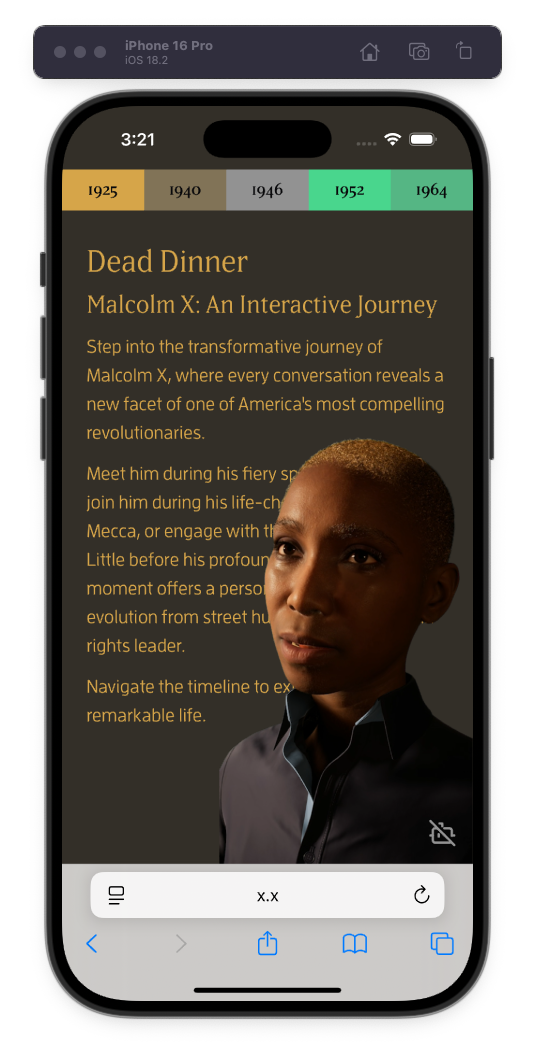
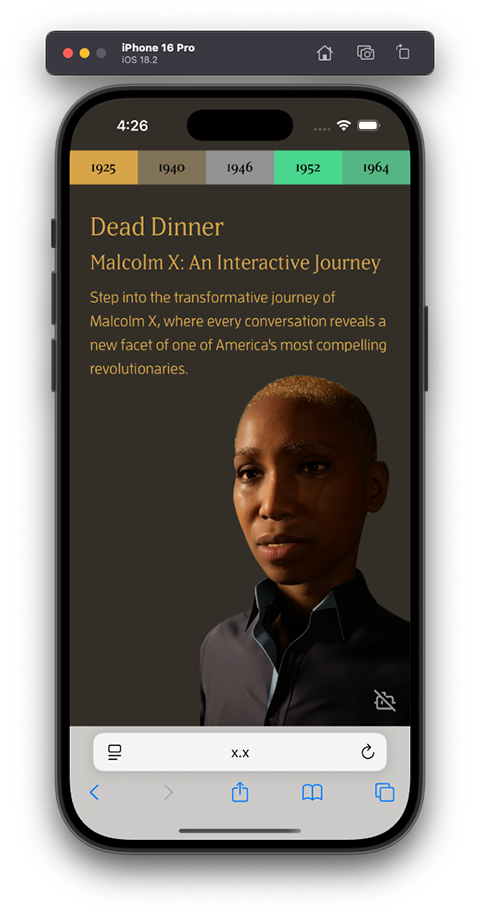
dd images + thirdeyes

diff --git a/apps/🏂home/app/(pages)/act/page.tsx b/apps/🏂home/app/(pages)/act/page.tsx
@@ -30,9 +30,10 @@ const Act = () => {
           </p>
         </div>
       </header>
+
       <div className="w-full max-w-[1200px] mx-auto pt-8">
         <div className="w-2/3 text-xl font-light text-namjunepaik-4-light">
-          <div className="text-3xl text-namjunepaik-3 font-[cholla-unicase]">
+          <div className="text-4xl text-namjunepaik-3 font-[cholla-unicase]">
             Dead Dinner
           </div>
           <p className="pt-1 leading-relaxed">
@@ -47,7 +48,7 @@ const Act = () => {
             introduces them to the app.
           </p>
         </div>
-        <div className="w-full grid grid-cols-4 justify-start gap-4 pt-4">
+        <div className="w-full grid grid-cols-4 justify-start gap-4 pt-8">
           <Image
             src="/images/act/dd-mob-1.png"
             alt="Dead Dinner"
@@ -73,7 +74,7 @@ const Act = () => {
             height={1062}
           />
         </div>
-        <div className="w-full pt-4">
+        <div className="w-full pt-8">
           <Image
             src="/images/act/dd-1.png"
             alt="Dead Dinner"
@@ -88,6 +89,40 @@ const Act = () => {
           />
           <Image
             src="/images/act/dd-3.png"
+            alt="Dead Dinner"
+            width={1200}
+            height={743}
+          />
+        </div>
+      </div>
+
+      <div className="w-full max-w-[1200px] mx-auto pt-24">
+        <div className="w-2/3 text-xl font-light text-namjunepaik-4-light">
+          <div className="text-4xl text-namjunepaik-3 font-[cholla-unicase]">
+            Thirdeyes
+          </div>
+          <p className="pt-1 leading-relaxed">
+            Thirdeyes aids music journalists in writing artist bios. Leveraging
+            multiple LLMs writers can step through and develop the core elements
+            of a bio. Assiting the writers, information is contextually
+            generated as they interact with the app.
+          </p>
+        </div>
+        <div className="w-full pt-4">
+          <Image
+            src="/images/act/thirdeyes-1.png"
+            alt="Dead Dinner"
+            width={1200}
+            height={743}
+          />
+          <Image
+            src="/images/act/thirdeyes-2.png"
+            alt="Dead Dinner"
+            width={1200}
+            height={743}
+          />
+          <Image
+            src="/images/act/thirdeyes-3.png"
             alt="Dead Dinner"
             width={1200}
             height={743}
